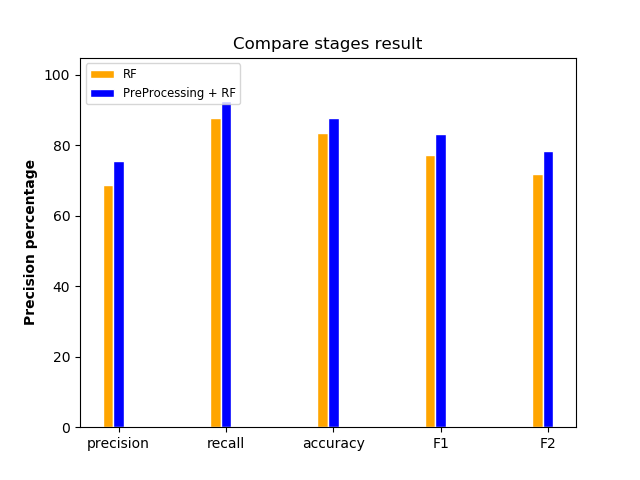
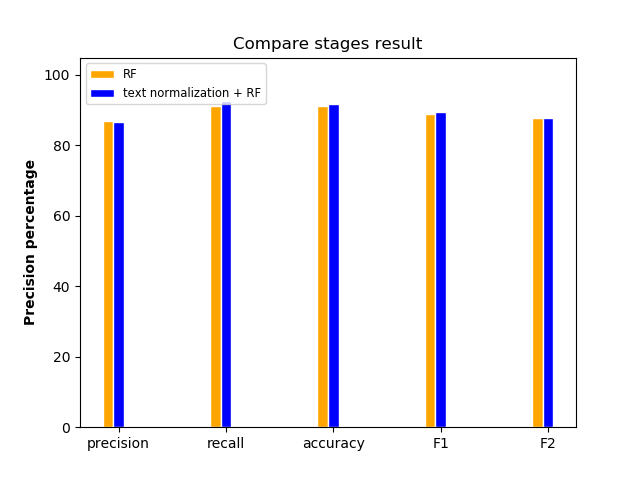
try with new stop words

diff --git a/textNormalization.py b/textNormalization.py
@@ -135,7 +135,7 @@ def get_hebrew_stopwords():
     """
     This function return the hebrew stopwords as list
     """
-    with open('heb_stopwords.txt', encoding="utf-8") as in_file:
+    with open('new_heb_stopwords.txt', encoding="utf-8") as in_file:
         lines = in_file.readlines()
         res = [l.strip() for l in lines]
     res.extend([",", "."])
